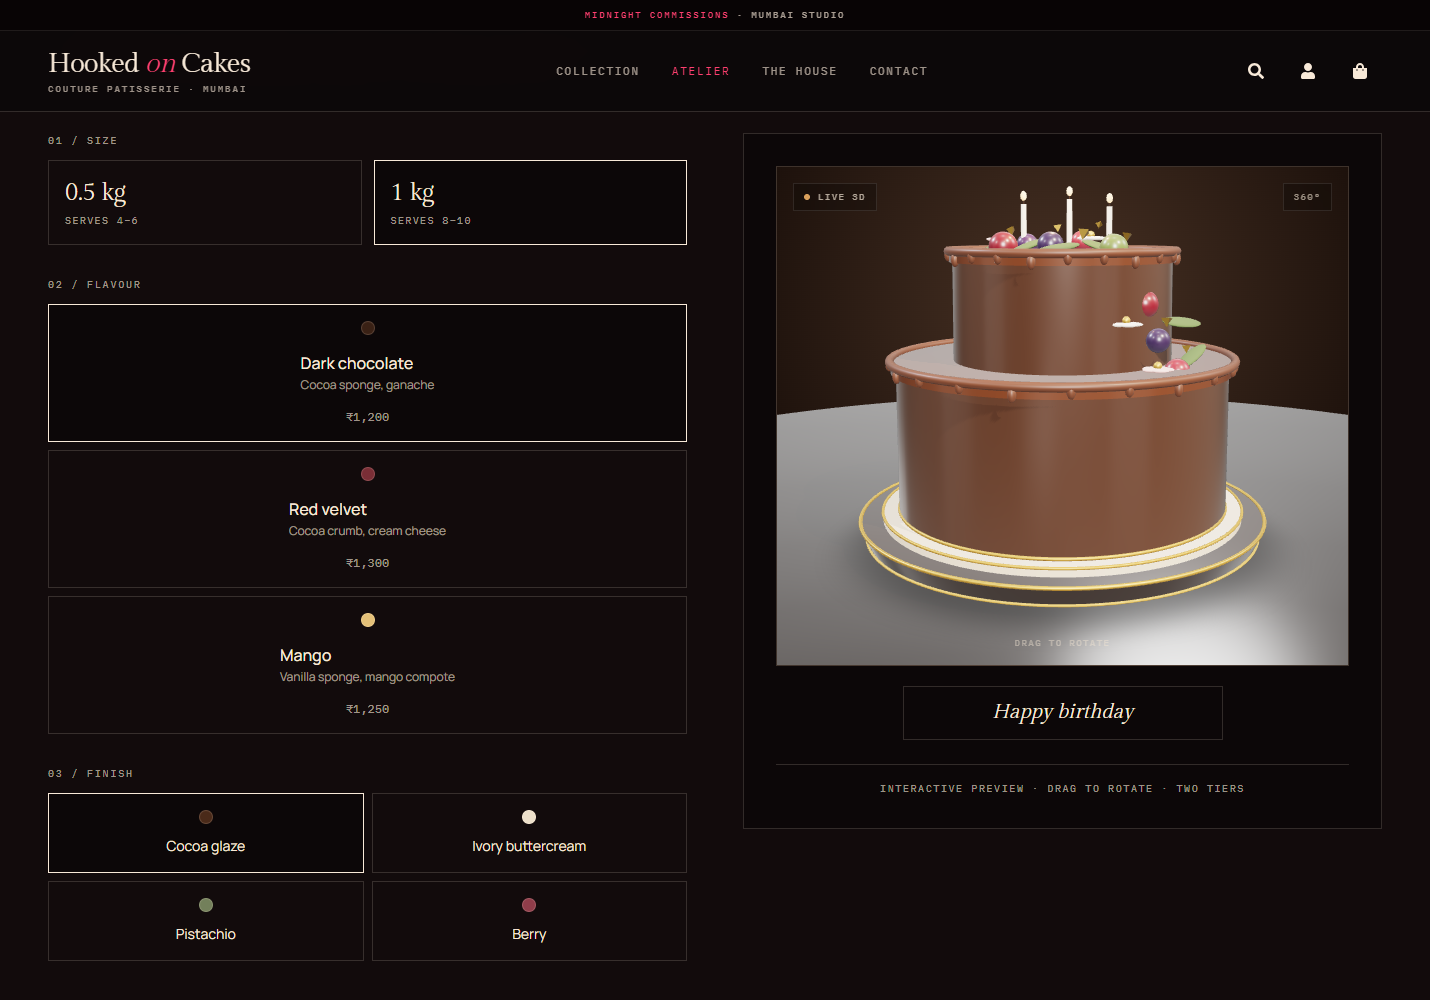
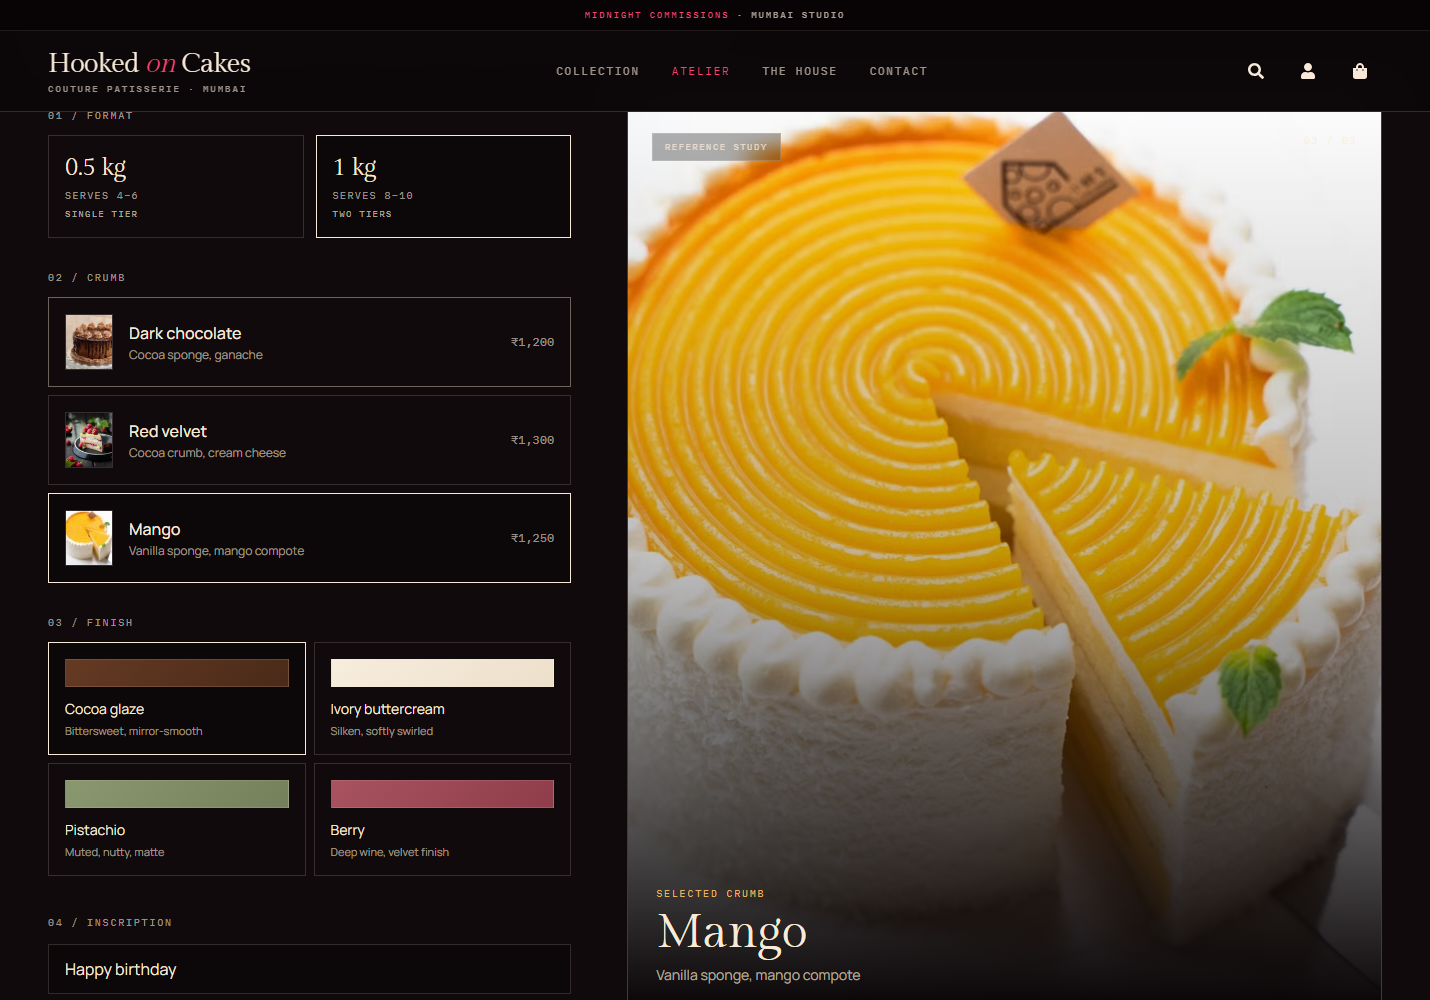
chore: refresh the Hooked on Cakes atelier shot and copy

diff --git a/src/data/projects.ts b/src/data/projects.ts
@@ -221,7 +221,7 @@ export const projects: Project[] = [
     featured: true,
     tagline: "A patisserie storefront with the back office to match.",
     description:
-      "Hooked on Cakes is a full-stack shop for celebration cakes with a storefront for customers and a separate dashboard for the owner. Customers can configure a cake, check out through Razorpay, leave a review, and track an order. The admin app handles products, inventory, orders, users, and revenue.",
+      "Hooked on Cakes is a full-stack shop for celebration cakes with a storefront for customers and a separate dashboard for the owner. Customers can configure a cake, place a cash-on-delivery order, leave a review, and track an order. The admin app handles products, inventory, orders, users, and revenue.",
     stack: [
       "React",
       "Vite",
@@ -230,13 +230,13 @@ export const projects: Project[] = [
       "Express",
       "Mongoose",
       "MongoDB",
-      "Razorpay",
       "Cloudinary",
+      "JWT",
     ],
     highlights: [
       "A storefront with product search and filtering, cart, checkout, order history, profiles, addresses, and reviews.",
-      "Razorpay order creation and server-side payment verification.",
-      "An atelier cake configurator for size, flavour, finish, and inscription.",
+      "Cash-on-delivery checkout with server-side order records and owner-side status updates.",
+      "A photographic atelier for format, crumb, finish, inscription, and a live estimate.",
       "A separate admin dashboard for revenue and order charts, product CRUD, inventory, order status, and customers.",
       "Cloudinary image uploads and transactional email notifications behind the shop.",
     ],
@@ -251,7 +251,7 @@ export const projects: Project[] = [
       },
       {
         src: "/projects/hooked-on-cakes/atelier.png",
-        alt: "Hooked on Cakes atelier with size, flavour, and finish controls beside a live cake preview",
+        alt: "Hooked on Cakes atelier with format, crumb, and finish controls beside a photographic cake reference and commission docket",
         width: 1430,
         height: 1000,
       },
